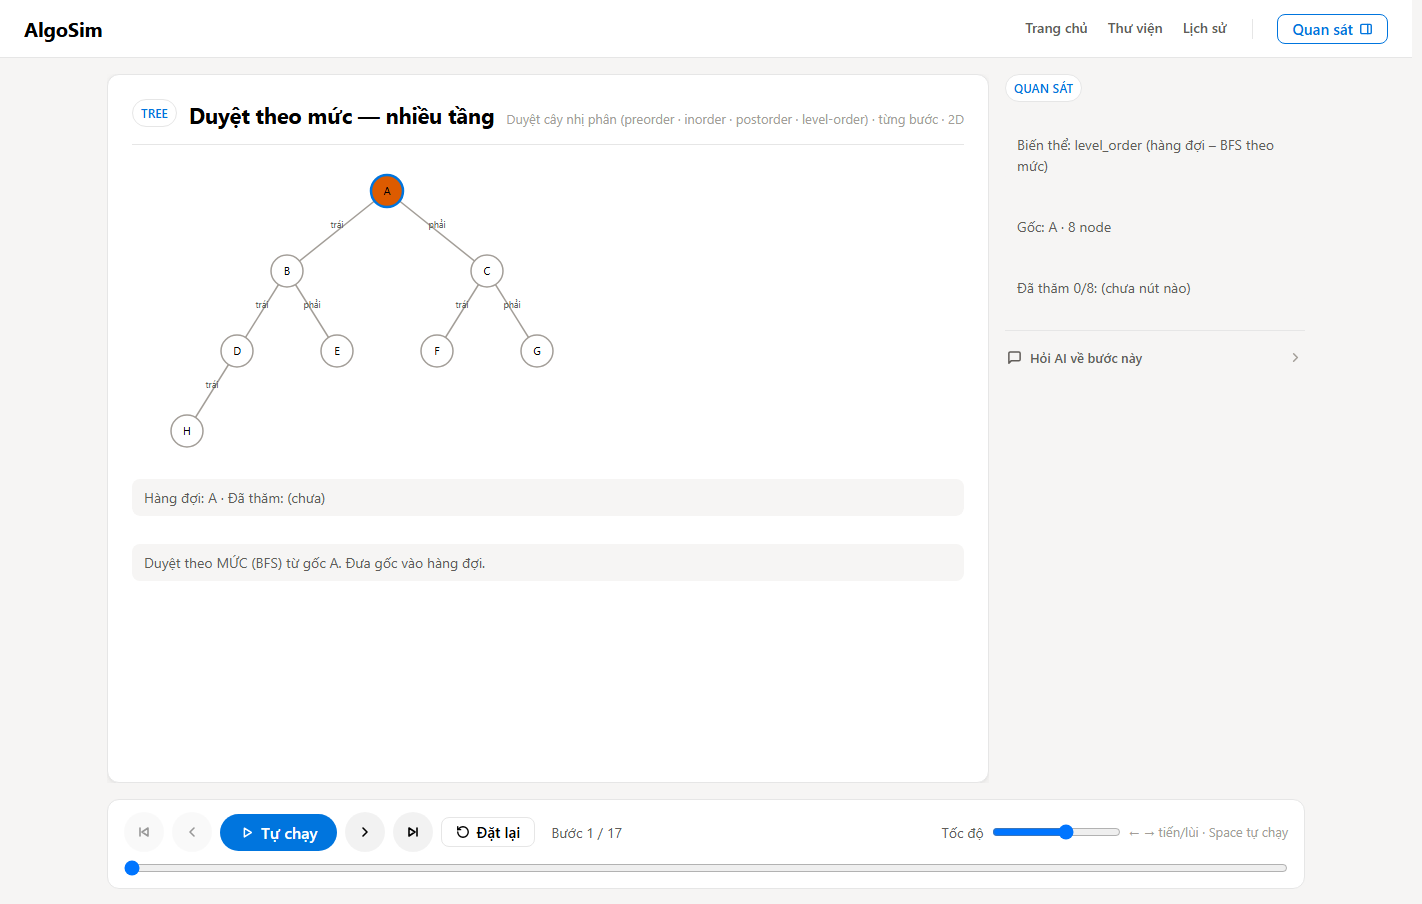
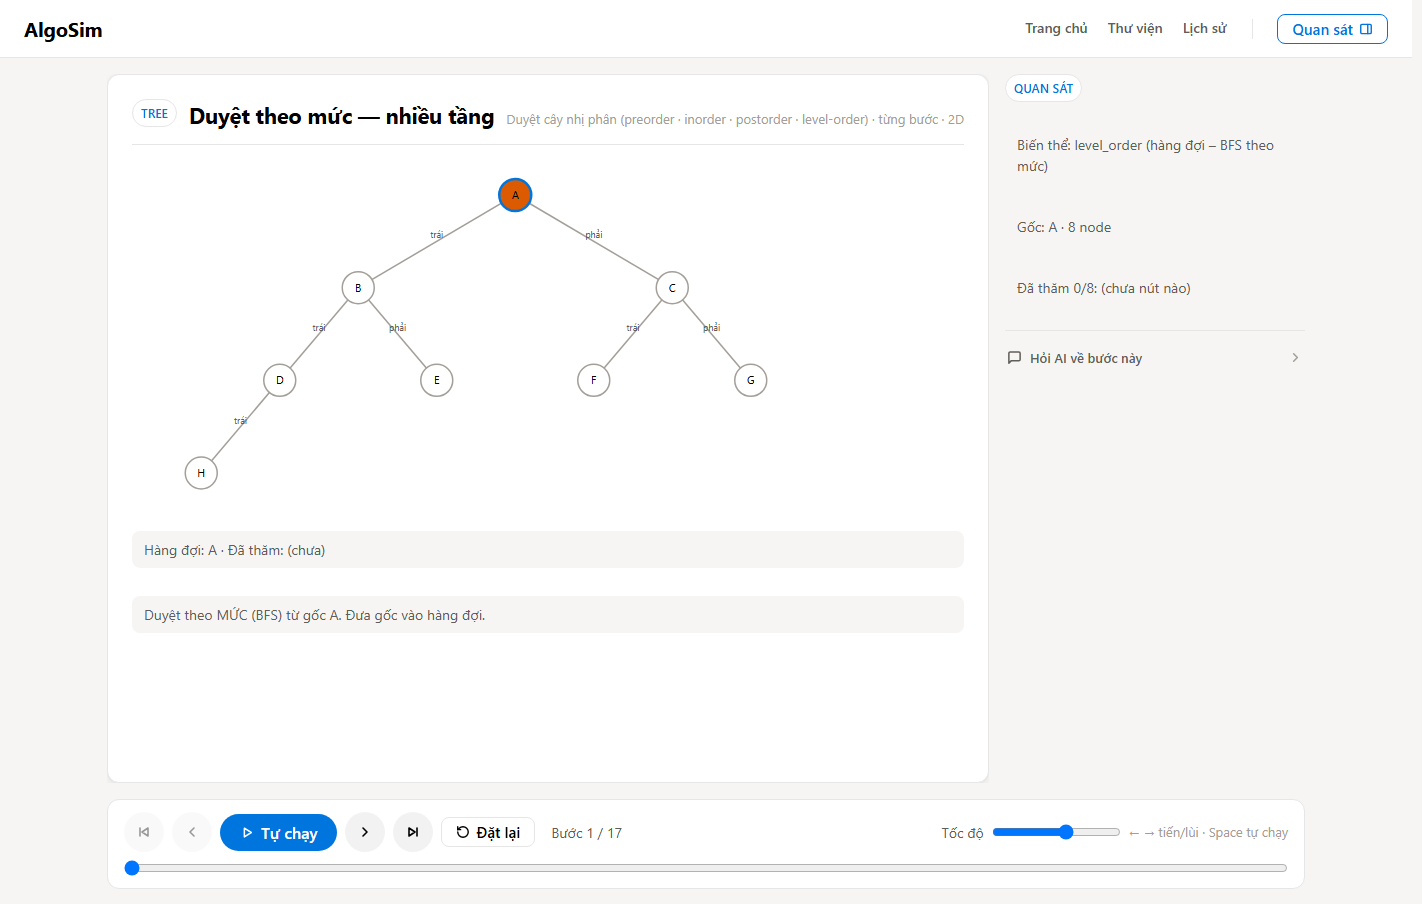
M17-VR1 hoi quy VR1-4 (phat hien khi user test de that): nhan tieng Viet DAI tran khoi nut. 6 fixture dau dung nhan 1 ky tu (A-G) nen che mat; de doi thuc 'Mang luoi truyen tin trong khu bao ton' (11 tram, ten tieng Viet, sau 5 tang cham bien) ve nhan TRONG vong tron r=16 tren khung CO DINH 460x300 

diff --git a/frontend/src/simulations/domains/tree/tree-module.tsx b/frontend/src/simulations/domains/tree/tree-module.tsx
@@ -320,8 +320,33 @@ export function validateTreeTraversalConfig(raw: unknown): ConfigResult<TreeTrav
 
 /* ── renderer: layout cây (in-order x, depth y) ── */
 
-const RW = 460;
-const RH = 300;
+/**
+ * Khung vẽ CO GIÃN theo cây thật (M17-VR1 hồi quy): khung cố định 460×300 chỉ
+ * đủ cho nhãn 1–2 ký tự (A, B, C). Đề đời thực dùng tên tiếng Việt dài ("Trăng
+ * Khuyết", "Sương Mai") → nhãn tràn khỏi nút và chồng lên nhau. Nay bề rộng cấp
+ * theo SỐ NÚT (mỗi nút một làn đủ rộng) và chiều cao theo ĐỘ SÂU.
+ */
+const SLOT_W = 86;   // bề rộng một làn nút (đủ cho nhãn ~12 ký tự)
+const LEVEL_H = 78;  // khoảng cách giữa hai tầng
+/** Nhãn ngắn vẽ TRONG nút; nhãn dài vẽ DƯỚI nút (không bóp méo vòng tròn). */
+const INLINE_LABEL_MAX = 2;
+
+function layoutSize(config: TreeTraversalConfig): { w: number; h: number } {
+  const map = nodeMap(config);
+  let maxDepth = 0;
+  const walk = (id: string, d: number) => {
+    maxDepth = Math.max(maxDepth, d);
+    const n = map.get(id);
+    if (!n) return;
+    if (n.left) walk(n.left, d + 1);
+    if (n.right) walk(n.right, d + 1);
+  };
+  walk(config.rootId, 0);
+  return {
+    w: Math.max(360, config.nodes.length * SLOT_W),
+    h: Math.max(190, (maxDepth + 1) * LEVEL_H + 40),
+  };
+}
 
 function treeLayout(config: TreeTraversalConfig): Map<string, { x: number; y: number; depth: number }> {
   const map = nodeMap(config);
@@ -339,10 +364,11 @@ function treeLayout(config: TreeTraversalConfig): Map<string, { x: number; y: nu
   place(config.rootId, 0);
   const n = inorderIndex;
   const maxDepth = Math.max(1, ...depths);
+  const { w, h } = layoutSize(config);
   for (const [id, p] of pos) {
     pos.set(id, {
-      x: 30 + (p.x + 0.5) * ((RW - 60) / Math.max(1, n)),
-      y: 30 + p.y * ((RH - 60) / maxDepth),
+      x: 30 + (p.x + 0.5) * ((w - 60) / Math.max(1, n)),
+      y: 34 + p.y * ((h - 74) / maxDepth),
       depth: p.depth,
     });
   }
@@ -360,6 +386,7 @@ export function TreeWorkspace({ state }: Props) {
   const step = state.steps[at];
   const map = nodeMap(state.config);
   const pos = treeLayout(state.config);
+  const { w: RW, h: RH } = layoutSize(state.config);
   const visited = new Set(step.visitedSoFar);
   const activePath = new Set(step.activePath);
   const last = at === state.steps.length - 1;
@@ -399,7 +426,14 @@ export function TreeWorkspace({ state }: Props) {
                         fill={isCur ? "var(--accent-orange)" : isVisited ? "var(--accent-green)" : "var(--surface)"}
                         stroke={n.id === state.config.rootId ? "var(--primary)" : "var(--ink-faint)"}
                         strokeWidth={n.id === state.config.rootId ? 2.5 : 1.5} />
-                <text x={p.x} y={p.y + 4} textAnchor="middle" fontSize={11}>{n.label}</text>
+                {/* Nhãn NGẮN nằm trong nút; nhãn DÀI (tên tiếng Việt) đặt DƯỚI
+                    nút để không tràn ra ngoài vòng tròn và đè nút bên cạnh. */}
+                {n.label.length <= INLINE_LABEL_MAX ? (
+                  <text x={p.x} y={p.y + 4} textAnchor="middle" fontSize={11}>{n.label}</text>
+                ) : (
+                  <text x={p.x} y={p.y + 30} textAnchor="middle" fontSize={11}
+                        fill="var(--ink-secondary)">{n.label}</text>
+                )}
               </g>
             );
           })}

diff --git a/docs/evaluation/m17/wave2a/tree_visual_review.md b/docs/evaluation/m17/wave2a/tree_visual_review.md
@@ -8,7 +8,12 @@
 > Runner: `frontend/scripts/capture-tree-visual.mjs` · dữ liệu thô:
 > `visual/captures.json` · máy-đọc: `tree_visual_review.json`.
 
-**6 fixture · 16 ảnh · 4 variant đều có initial/mid/final.**
+**7 fixture · 19 ảnh · 4 variant đều có initial/mid/final.**
+
+> **Bổ sung sau khi người dùng test thật:** fixture thứ 7
+> (`vr1-realworld-vietnamese-labels`) dựng đúng đề *"Mạng lưới truyền tin trong
+> khu bảo tồn"* — 11 trạm, **tên tiếng Việt dài**, sâu **5 tầng (chạm biên)**.
+> Nó lộ ra lỗi **VR1-4** mà 6 fixture chữ-cái-đơn không thấy.
 
 ## Kết luận: `REAL_VISUAL` — sau 3 sửa lỗi bounded
 
@@ -84,7 +89,22 @@ biên API → học sinh có thể thấy chuỗi như `arbitrary_algorithm`. Ng
   **viền + nền + chữ** bổ trợ ngoài màu; nút điều khiển (Tự chạy / tiến / lùi /
   Đặt lại) rõ, có phím tắt; thông điệp thiếu dữ kiện nêu rõ **cách cung cấp cây**.
 
+### VR1-4 · `BROKEN_VISUAL` → FIXED — nhãn tiếng Việt **tràn khỏi nút**
+
+Phát hiện khi người dùng test đề thật. Sáu fixture đầu dùng nhãn **1 ký tự**
+(A–G) nên vấn đề bị che. Đề đời thực có nhãn như **"Trăng Khuyết", "Sương
+Mai"** vẽ **trong** vòng tròn `r=16` trên khung **cố định 460×300** → chữ tràn
+ra ngoài, **đè nút và cạnh bên cạnh**, không đọc được.
+
+Engine **vẫn đúng** (thứ tự preorder chuẩn) — chỉ phần trình bày hỏng.
+
+- Sửa: khung vẽ **co giãn** (rộng theo số nút — 86px/làn; cao theo độ sâu —
+  78px/tầng); nhãn **>2 ký tự vẽ DƯỚI nút** thay vì trong vòng tròn.
+- Guard: fixture `vr1-realworld-vietnamese-labels` vào **bộ chụp thường trực**.
+- Phụ thu: cây 1 nút hết khoảng trắng thừa (chiều cao nay theo độ sâu) — xoá
+  luôn một mục backlog cũ.
+
 ## Backlog visual còn lại (không chặn)
 
-- Cây 1 nút để lại khoảng trắng lớn dưới khung (viewBox cố định) — thẩm mỹ.
-- Nhãn cạnh 9px đọc tốt ở cây ≤8 nút đã kiểm; cần đo lại nếu nới bound node.
+- Nhãn quá ~12 ký tự trong cây >11 nút chưa đo — cần fixture mới nếu nới giới
+  hạn số nút.
